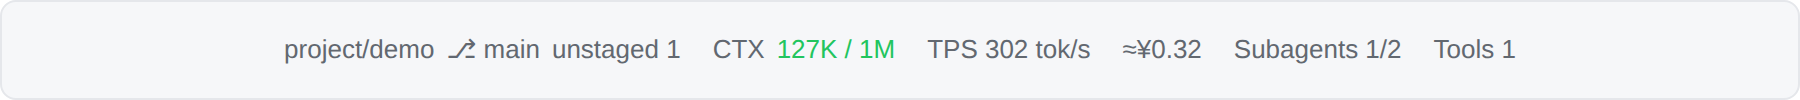
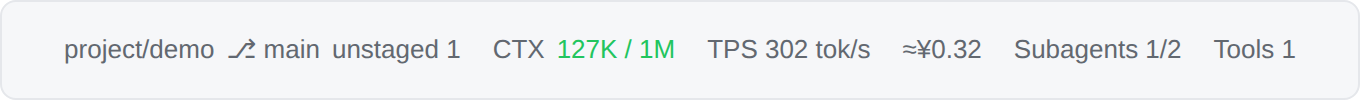
docs: improve README feature screenshots and layout

Changed region(s): [[0.0309, 0.39, 0.9574, 0.63]]

diff --git a/README.md b/README.md
@@ -1,8 +1,4 @@
-<p align="center">
-  <img src="icon.svg" width="80" height="80" alt="dsh-statusline-plus logo">
-</p>
-
-# dsh-statusline-plus
+# <img src="icon.svg" width="32" height="32" alt=""> dsh-statusline-plus
 
 [![Version](https://img.shields.io/badge/version-0.1.1-blue)](https://github.com/overact/dsh-statusline-plus/releases/tag/v0.1.1)
 [![Verify](https://github.com/overact/dsh-statusline-plus/actions/workflows/verify.yml/badge.svg)](https://github.com/overact/dsh-statusline-plus/actions/workflows/verify.yml)
@@ -12,14 +8,29 @@
 <a id="english"></a>
 A responsive statusline for DeepSeek Harness (`dsh web`). Account quotas appear in the header; workspace and session metrics appear beside the composer.
 
+## Screenshots
+
+**Header quotas and DeepSeek peak indicator**
+
+<p><img src="docs/images/header-quotas.png" width="680" alt="Sample DeepSeek balance, Kimi Code subscription usage, DeepSeek peak countdown and sidebar indicator"></p>
+
+| Balance details | Peak indicator |
+| --- | --- |
+| <img src="docs/images/quota-panel.png" width="312" alt="DeepSeek balance details with separate CNY and USD balances and manual refresh"> | <img src="docs/images/peak-panel.png" width="312" alt="DeepSeek peak status, countdown, daily timeline and official rules link"> |
+
+**Session metrics**
+
 <p><img src="docs/images/bottom-bar.png" width="680" alt="Bottom status line: Git, context, TPS, cost, Subagents and tools"></p>
-<p><img src="docs/images/cost-panel.png" width="224" alt="Token and reference-cost breakdown"> <img src="docs/images/subagents-panel.png" width="280" alt="Subagent activity"></p>
+
+| Reference cost | Subagent activity |
+| --- | --- |
+| <img src="docs/images/cost-panel.png" width="312" alt="Token and reference-cost breakdown"> | <img src="docs/images/subagents-panel.png" width="312" alt="Subagent activity"> |
 
 Screenshots use the actual UI with sample data, without account or conversation data.
 
 ## Features
 
-- **Balances and quotas:** DeepSeek, Kimi Code, Z.ai / 智谱, Antigravity, Codex, OpenCode Go and OpenRouter. Click a chip for details and refresh.
+- **Balances and quotas:** DeepSeek, Kimi Code, Z.ai / Zhipu, Antigravity, Codex, OpenCode Go and OpenRouter. Click a chip for details and refresh.
 - **DeepSeek peak hours:** status, countdown and daily timeline, plus a sidebar indicator. In a year with no calendar, a weekday inside a peak window stays unknown while weekends and hours outside the windows are still off-peak; when the official rule wording no longer matches, the schedule is still applied and the indicator warns that rules may have changed.
 - **Workspace and session:** Git branch and changes, context usage, streaming TPS, API reference cost, direct child agents and tool activity.
 - **Layout:** component switches, ordering, presets and an interactive preview. Groups wrap on narrow screens; an optional switch disables this plugin's bottom status line when the input area is at most 480px wide, including when sidebars narrow it.
@@ -40,6 +51,10 @@ For an earlier manual installation, remove the `@local/dsh-statusline-plus` row 
 
 Open **DSH Web → Settings → Statusline**. Settings are saved under `statusline-plus` in the native profile.
 
+**Display switches, layout presets, ordering, quota sources and refresh options**
+
+<p><img src="docs/images/settings.png" width="680" alt="Statusline settings: component switches and ordering, layout preview, narrow-screen option, quota and peak toggles, account sources, cache and timeout"></p>
+
 | Setting | Default | Effect |
 | --- | --- | --- |
 | `enabled` | `true` | All plugin displays and refreshes |
@@ -55,7 +70,7 @@ Open **DSH Web → Settings → Statusline**. Settings are saved under `statusli
 
 The narrow-screen switch is in **Bottom status line**. It affects this plugin's bottom components; header quotas, peak indicators and native composer stats remain available. This switch and the other changes listed under **Unreleased** in the release notes are not yet part of a published release; the published v0.1.1 release asset is unchanged.
 
-DeepSeek reuses `DEEPSEEK_API_KEY`; Kimi uses `KIMI_API_KEY`; Z.ai and 智谱 use `ZAI_API_KEY` and `ZAI_CODING_CN_API_KEY`. Other sources use their existing Host credentials or account integrations. Configure credential references, never literal keys. Keys stay on the Host.
+DeepSeek reuses `DEEPSEEK_API_KEY`; Kimi uses `KIMI_API_KEY`; Z.ai and Zhipu use `ZAI_API_KEY` and `ZAI_CODING_CN_API_KEY`. Other sources use their existing Host credentials or account integrations. Configure credential references, never literal keys. Keys stay on the Host.
 
 Presets change bottom components only. Reset restores display, layout and refresh preferences while retaining credential references, account files, repository paths and per-source switches.
 
@@ -65,21 +80,6 @@ Presets change bottom components only. Reset restores display, layout and refres
 - Cost is an estimate from actual usage and the model vendor's public API prices, including cache rates where known. Subscriptions use the same reference prices. USD and CNY remain separate; missing prices stay unpriced. It excludes child sessions, inherited fork history and extra fees, and does not represent an account charge.
 - TPS distinguishes character estimates from settled output-token rates. Tool durations include approval and waiting. Subagents show direct children; stopped does not imply success.
 - Provider APIs and price catalogs may change independently. DeepSeek's calendar has a built-in 2025–2026 fallback, and a fetched holiday-cn calendar wins where that year is published; outside that, a weekday inside a peak window in an uncovered year is not guessed. The official pricing page is only a change detector: if its rule sentence stops matching, pricing and the peak indicator keep using the schedule they already hold and the indicator adds a "rules may have changed" warning next to its link to the official page.
-
-<a id="简体中文"></a>
-## 简体中文
-
-DSH 网页端状态行：顶部显示账号余额与套餐额度，输入区显示 Git、上下文、TPS、API 参考金额、Subagents 和工具活动。支持 DeepSeek、Kimi Code、Z.ai／智谱、Antigravity、Codex、OpenCode Go、OpenRouter，以及 DeepSeek 峰谷时段指示。
-
-**安装：** 需要 DSH >=0.2.0-rc.2 且 <0.3.0，使用上面的安装命令；插件自带预构建文件和注册配置。启用 HMR 后，插件启停与设置实时生效；本地源码目录纳入监听时也可热加载，之后刷新浏览器。安装或升级提示 `restart-required` 时，才需等待无活跃会话后重启。旧版手动安装请先移除 `@local/dsh-statusline-plus` 注册行和依赖，避免重复。
-
-**设置：** 打开 **DSH Web → 设置 → Statusline（状态栏）**，调整显示、排序、预设、顶部额度、账号来源及缓存。密钥仅在宿主侧解析，设置里填写凭据引用。
-
-**额度恢复：** 额度请求使用插件自有连接池，每个地址的连接尝试窗口为 5 秒，完整请求仍受总超时限制（Codex 为 15 秒）；宿主网络默认值不变。查询成功即更新显示，不必等满 5 秒。网络失败每轮最多自动重试 3 次，分别等待 15／30／60 秒；限流时等待 60／120／240 秒。断网时暂停，网络恢复、页面重新可见、新步骤或手动刷新会开启新一轮查询；当前重试轮结束后，页面重新获得焦点也可恢复查询。重试期间保留已有的成功数据，并提示网络异常及重试已用完；凭据与响应格式错误不自动重试。
-
-**窄屏：** 在“底部状态行”中开启“窄屏时隐藏底部状态行”（`hideBottomOnNarrow`，默认关闭）。输入区域宽度 ≤480px 时不挂载本插件的底部组件，停止相关客户端刷新与计时；侧栏挤窄输入区域也会触发，变宽后自动恢复。顶部额度、峰谷指示与原生输入区统计仍可使用。此开关与发布说明中 **Unreleased** 下的其它改动尚未包含在任何已发布的版本中；已发布的 v0.1.1 安装包保持不变。
-
-**说明：** 费用按模型厂商 API 单价估算，不代表实际扣款，不含子代理与额外费用；人民币和美元分别累计。额度缓存到期本身不会轮询，失败保留上次结果，未知值不显示成零。工具耗时包含审批与等待；子代理停止不等于成功。峰谷指示：没有日历覆盖的年份，只有“峰段窗口内的工作日”保持未知（周末与窗口外仍为谷段）；官方规则措辞不再匹配时，仍按已有窗口与日历判断，并额外提示“规则可能已变更”，官方页面链接就在提示旁边。恢复默认保留凭据引用、账号、仓库路径和各来源开关。
 
 ## Development verification
 
@@ -104,5 +104,22 @@ npm run verify:ui -- --panel responsive
 The runner uses installed Chrome or Playwright Chromium; `PLAYWRIGHT_CHROMIUM_EXECUTABLE_PATH` overrides the executable. Reports and screenshots go to ignored `output/playwright/`.
 
 An optional authorized, read-only live check requires an existing session: `npm run verify:ui -- --live --session SESSION_ID --panel all`. It opens cost/Subagents panels without changing settings, submitting prompts or restarting DSH. Local login comes from `DSH_AUTH_URL` or the user service journal; authentication is redacted. Responsive settings checks run offline only.
+
+<a id="简体中文"></a>
+## 简体中文
+
+DSH 网页端状态行：顶部显示账号余额与套餐额度，输入区显示 Git、上下文、TPS、API 参考金额、子代理和工具活动。支持 DeepSeek、Kimi Code、Z.ai／智谱、Antigravity、Codex、OpenCode Go、OpenRouter，以及 DeepSeek 峰谷时段指示。
+
+**截图：** [额度与峰谷提示](docs/images/header-quotas.png)、[余额详情](docs/images/quota-panel.png)、[峰谷详情](docs/images/peak-panel.png)、[会话指标](docs/images/bottom-bar.png)、[设置选项](docs/images/settings.png)。截图使用英文界面与演示数据，不包含真实账号或对话数据。
+
+**安装：** 需要 DSH >=0.2.0-rc.2 且 <0.3.0，使用上面的安装命令；插件自带预构建文件和注册配置。启用 HMR 后，插件启停与设置实时生效；本地源码目录纳入监听时也可热加载，之后刷新浏览器。安装或升级提示 `restart-required` 时，才需等待无活跃会话后重启。旧版手动安装请先移除 `@local/dsh-statusline-plus` 注册行和依赖，避免重复。
+
+**设置：** 打开 **DSH 网页端 → 设置 → 状态栏**，调整显示、排序、预设、顶部额度、账号来源及缓存。密钥仅在宿主侧解析，设置里填写凭据引用。
+
+**额度恢复：** 额度请求使用插件自有连接池，每个地址的连接尝试窗口为 5 秒，完整请求仍受总超时限制（Codex 为 15 秒）；宿主网络默认值不变。查询成功即更新显示，不必等满 5 秒。网络失败每轮最多自动重试 3 次，分别等待 15／30／60 秒；限流时等待 60／120／240 秒。断网时暂停，网络恢复、页面重新可见、新步骤或手动刷新会开启新一轮查询；当前重试轮结束后，页面重新获得焦点也可恢复查询。重试期间保留已有的成功数据，并提示网络异常及重试已用完；凭据与响应格式错误不自动重试。
+
+**窄屏：** 在“底部状态行”中开启“窄屏时隐藏底部状态行”（`hideBottomOnNarrow`，默认关闭）。输入区域宽度 ≤480px 时不挂载本插件的底部组件，停止相关客户端刷新与计时；侧栏挤窄输入区域也会触发，变宽后自动恢复。顶部额度、峰谷指示与原生输入区统计仍可使用。此开关与发布说明中的[未发布改动](CHANGELOG.md#unreleased)尚未包含在任何已发布的版本中；已发布的 v0.1.1 安装包保持不变。
+
+**说明：** 费用按模型厂商 API 单价估算，不代表实际扣款，不含子代理与额外费用；人民币和美元分别累计。额度缓存到期本身不会轮询，失败保留上次结果，未知值不显示成零。工具耗时包含审批与等待；子代理停止不等于成功。峰谷指示：没有日历覆盖的年份，只有“峰段窗口内的工作日”保持未知（周末与窗口外仍为谷段）；官方规则措辞不再匹配时，仍按已有窗口与日历判断，并额外提示“规则可能已变更”，官方页面链接就在提示旁边。恢复默认保留凭据引用、账号、仓库路径和各来源开关。
 
 [MIT License](LICENSE)
